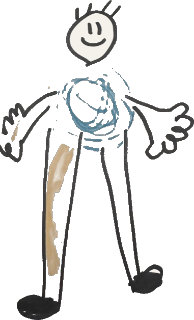
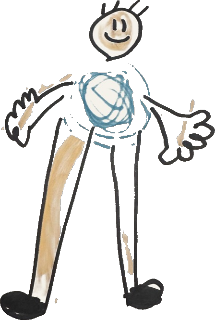
feat: Mr Grumble; Sam's more detailed Tom, Zara and Madame Mystic (v0.6.1)
15 of 22 drawn. New tools/image-fix/paper_only.gd turns a tablecloth round
the paper into plain paper (Tom's new photo). Puppet cut-outs remade.

Changed region(s): [[0.0, 0.0, 1.0, 1.0]]

diff --git a/js/characters.js b/js/characters.js
@@ -32,7 +32,8 @@ export const CHARACTERS = [
     picture: "assets/characters/tom.jpg" },
   { id: "zara", name: "Zara Zoom", about: "A racing cyclist.", colour: "#f1c40f",
     picture: "assets/characters/zara.jpg" },
-  { id: "grumble", name: "Mr Grumble", about: "Grumpy, but kind inside.", colour: "#5d6d7e" },
+  { id: "grumble", name: "Mr Grumble", about: "Grumpy, but kind inside.", colour: "#5d6d7e",
+    picture: "assets/characters/grumble.jpg" },
   { id: "penny", name: "Penny Pockets", about: "Collects shiny things.", colour: "#d4ac0d" },
   { id: "kick", name: "Coach Kick", about: "A football coach. Shouts a lot.", colour: "#27ae60" },
   { id: "stan", name: "Stationmaster Stan", about: "Runs Havenbrook Station. Loves his whistle.", colour: "#1f3a5f" },

diff --git a/js/version.js b/js/version.js
@@ -1,4 +1,4 @@
 // The game's name and version: the single source of truth. Bump the
 // version on every gameplay change (CLAUDE.md rule 6).
 export const GAME_NAME = "Project Sam";
-export const VERSION = "0.6.0";
+export const VERSION = "0.6.1";

diff --git a/docs/characters.md b/docs/characters.md
@@ -16,7 +16,7 @@ keeps only pen (dark) and crayon (colourful) and makes the rest plain paper;
 `assets/characters/<id>.jpg`, and listed as `picture` in
 `js/characters.js`. A test fails if a listed picture is missing.
 
-Done (14 of 22):
+Done (15 of 22):
 - Captain Puddle (2026-10-24: pirate hat with a "no water" sign, peg leg,
   skull shirt; re-photographed without the shadow)
 - Granny Gumdrop (2026-10-24: purple dress, hair in a bun, a bag of sweets)
@@ -35,6 +35,10 @@ Done (14 of 22):
 - Tiny Tom (2026-10-24: very long legs; cut-out paper cleaned with
   `tools/image-fix/clean_paper.gd` then `fix_edge.gd ... hard=30`)
 - Zara Zoom (2026-10-24: helmet, racing bike, the Olympic rings on her jersey)
+- Mr Grumble (2026-10-24: glasses, a grumpy face, a walking stick)
+
+Redrawn with more detail (coloured faces), 2026-10-24: Tiny Tom (photo on a
+tablecloth: `paper_only.gd` then `clean_paper.gd`), Zara Zoom, Madame Mystic.
 
 | # | Name | About them |
 |---|------|-----------|

diff --git a/CLAUDE.md b/CLAUDE.md
@@ -205,7 +205,7 @@ so, kindly.
   crashes partway can look like a pass (learned in Project 2126).
 
 ## Current status
-Updated 2026-10-24 (v0.6.0).
+Updated 2026-10-24 (v0.6.1).
 - **Phase 0 (web setup) done.** Tests in headless Chrome; GitHub Pages;
   Turbo Town archived.
 - **Phase 1 done.** The game: like The Traitors, starting at Havenbrook
@@ -226,6 +226,6 @@ Updated 2026-10-24 (v0.6.0).
   them (see `docs/characters.md`).
 - **Phase 4 (the night) built, waiting for Sam (v0.4.0).** Traitors'
   meeting, the letter, breakfast; tactical voting (`docs/night-spec.md`).
-- **Roadmap OK'd by Gareth.** Sam draws the 22 pictures as we go (14 of 22
+- **Roadmap OK'd by Gareth.** Sam draws the 22 pictures as we go (15 of 22
   in: how to add one is in `docs/characters.md`); voices
   are the iPad's own (Web Speech), arriving with Phase 3.

diff --git a/docs/roadmap.md b/docs/roadmap.md
@@ -83,4 +83,4 @@ you got to.
 Anything else for the look and sound, once the game is fun.
 
 ## Ongoing: Sam's character drawings
-Added as they come in. Done: 14 of 22 (Captain Puddle, Granny Gumdrop, Professor Fizz, Ruby Rails, Chef Pepper, Sir Reginald Waffle, Doctor Plaster, Lola Loud, Farmer Fern, Detective Dot, Benny Biscuit, Madame Mystic, Tiny Tom, Zara Zoom).
+Added as they come in. Done: 15 of 22 (Captain Puddle, Granny Gumdrop, Professor Fizz, Ruby Rails, Chef Pepper, Sir Reginald Waffle, Doctor Plaster, Lola Loud, Farmer Fern, Detective Dot, Benny Biscuit, Madame Mystic, Tiny Tom, Zara Zoom, Mr Grumble).
